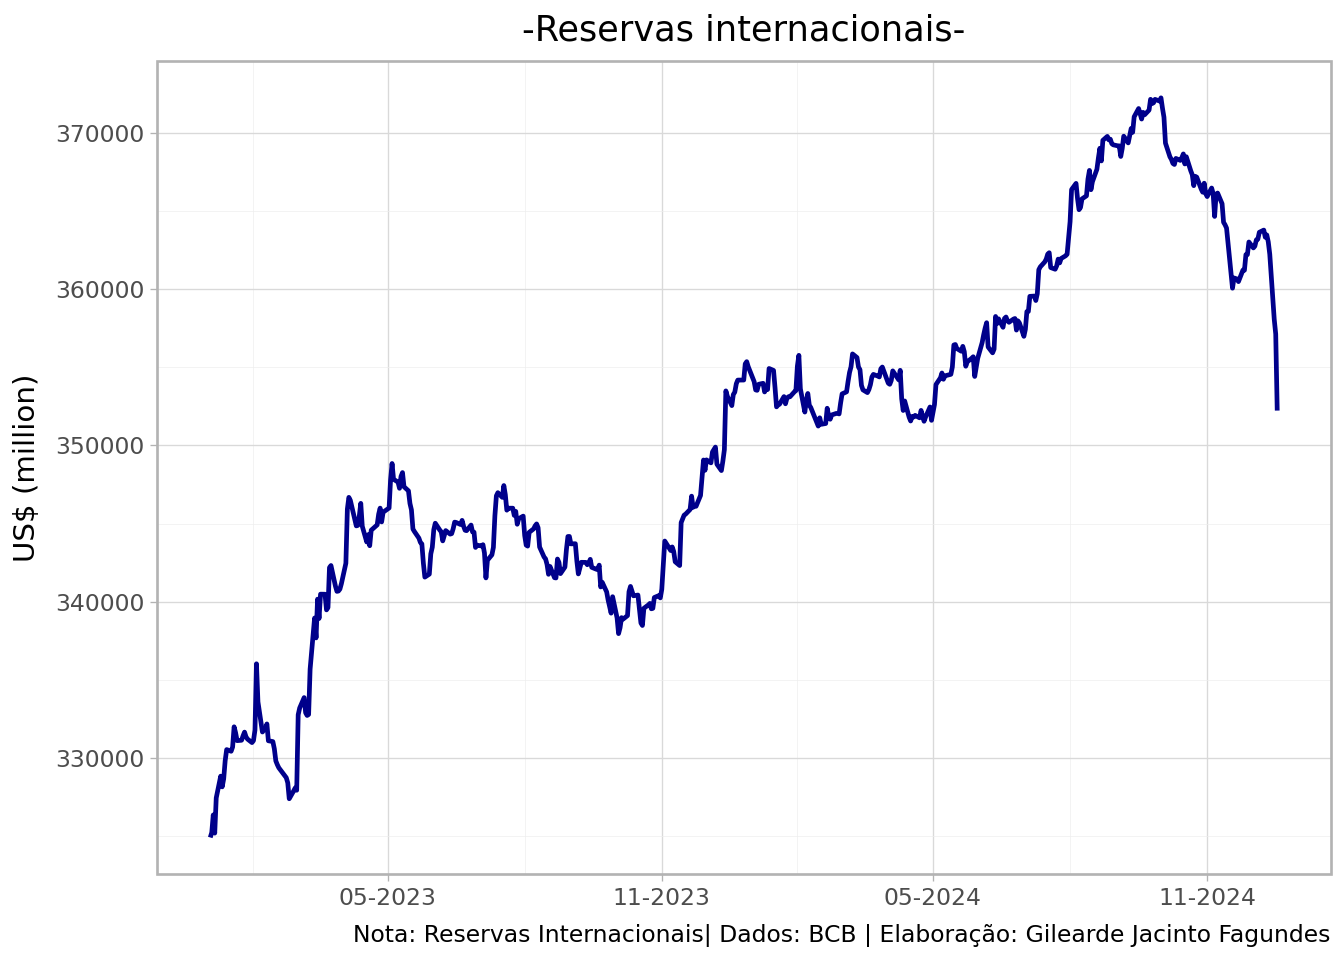
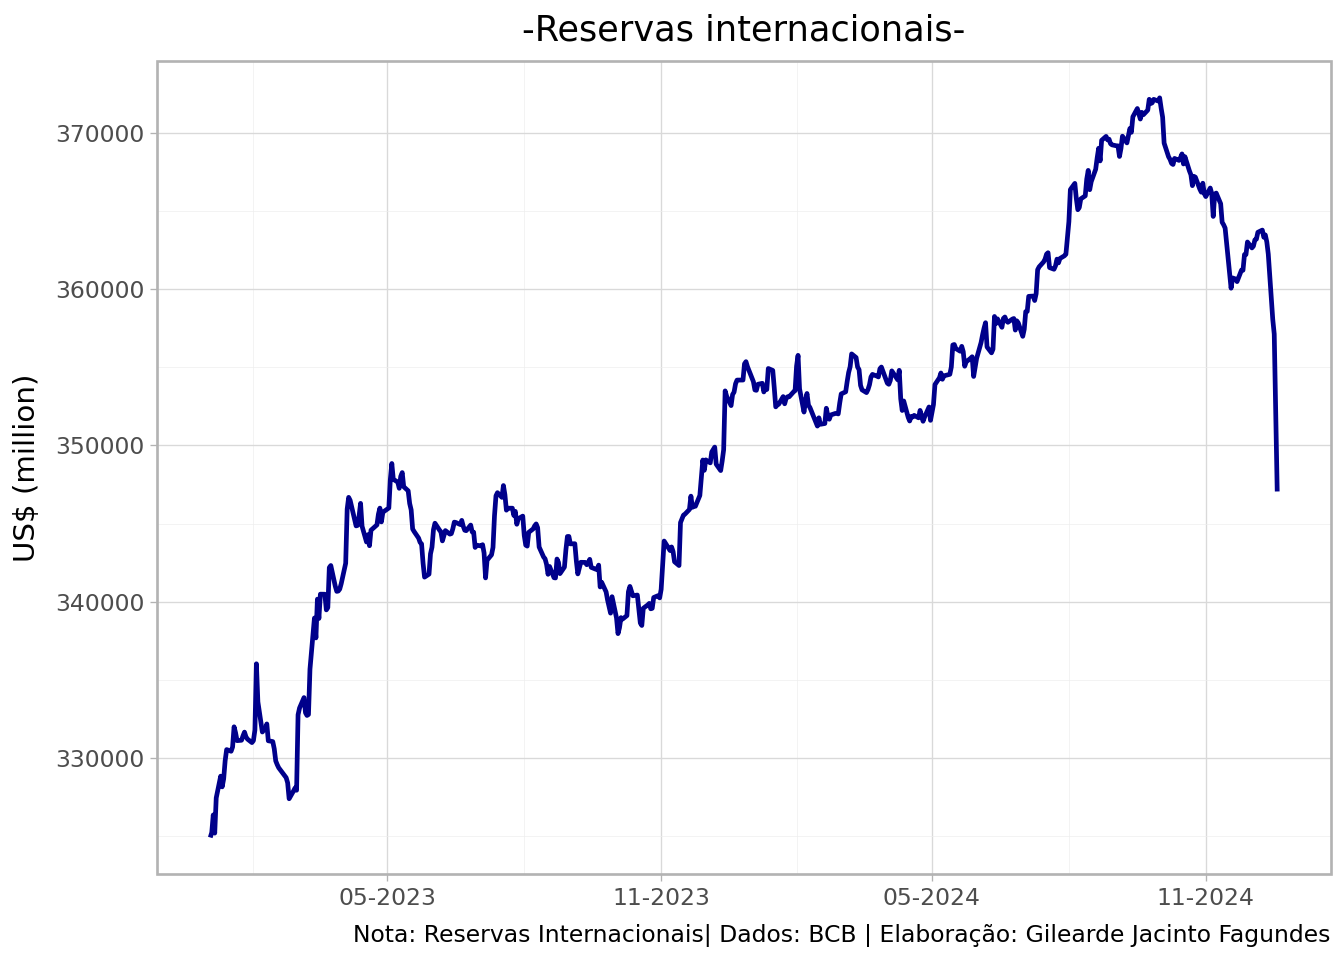
Atualização de relatorio e dashboard

diff --git a/relatorio/relatorio.html b/relatorio/relatorio.html
@@ -107,14 +107,14 @@ pre > code.sourceCode > span > a:first-child::before { text-decoration: underlin
 
 
 <p>Dados coletados da API do Banco Central do Brasil.</p>
-<div id="3549dc92" class="cell" data-execution_count="1">
+<div id="e4128f4b" class="cell" data-execution_count="1">
 <div class="sourceCode cell-code" id="cb1"><pre class="sourceCode python code-with-copy"><code class="sourceCode python"><span id="cb1-1"><a href="#cb1-1" aria-hidden="true" tabindex="-1"></a><span class="co"># Importar bibliotecas</span></span>
 <span id="cb1-2"><a href="#cb1-2" aria-hidden="true" tabindex="-1"></a><span class="im">from</span> bcb <span class="im">import</span> sgs</span>
 <span id="cb1-3"><a href="#cb1-3" aria-hidden="true" tabindex="-1"></a><span class="im">import</span> pandas <span class="im">as</span> pd</span>
 <span id="cb1-4"><a href="#cb1-4" aria-hidden="true" tabindex="-1"></a><span class="im">import</span> plotnine <span class="im">as</span> p9</span></code><button title="Copy to Clipboard" class="code-copy-button"><i class="bi"></i></button></pre></div>
 </div>
 <p>Utilização da library SGS/BCB :</p>
-<div id="aa00cc82" class="cell" data-execution_count="2">
+<div id="94075708" class="cell" data-execution_count="2">
 <div class="sourceCode cell-code" id="cb2"><pre class="sourceCode python code-with-copy"><code class="sourceCode python"><span id="cb2-1"><a href="#cb2-1" aria-hidden="true" tabindex="-1"></a><span class="co"># Coleta de dados</span></span>
 <span id="cb2-2"><a href="#cb2-2" aria-hidden="true" tabindex="-1"></a>dados <span class="op">=</span> sgs.get(</span>
 <span id="cb2-3"><a href="#cb2-3" aria-hidden="true" tabindex="-1"></a>    codes<span class="op">=</span>{<span class="st">"reserva"</span>: <span class="dv">13621</span>},</span>
@@ -123,7 +123,7 @@ pre > code.sourceCode > span > a:first-child::before { text-decoration: underlin
 <span id="cb2-6"><a href="#cb2-6" aria-hidden="true" tabindex="-1"></a>)</span></code><button title="Copy to Clipboard" class="code-copy-button"><i class="bi"></i></button></pre></div>
 </div>
 <p>Os dados brutos obtidos no SGS/BCB são exibidos abaixo:</p>
-<div id="d531b911" class="cell" data-execution_count="3">
+<div id="aede2d13" class="cell" data-execution_count="3">
 <div class="sourceCode cell-code" id="cb3"><pre class="sourceCode python code-with-copy"><code class="sourceCode python"><span id="cb3-1"><a href="#cb3-1" aria-hidden="true" tabindex="-1"></a>dados</span></code><button title="Copy to Clipboard" class="code-copy-button"><i class="bi"></i></button></pre></div>
 <div class="cell-output cell-output-display" data-execution_count="3">
 <div>
@@ -166,37 +166,37 @@ pre > code.sourceCode > span > a:first-child::before { text-decoration: underlin
 <td>...</td>
 </tr>
 <tr class="odd">
-<td data-quarto-table-cell-role="th">2024-12-12</td>
-<td>363012</td>
-</tr>
-<tr class="even">
 <td data-quarto-table-cell-role="th">2024-12-13</td>
 <td>362225</td>
 </tr>
-<tr class="odd">
+<tr class="even">
 <td data-quarto-table-cell-role="th">2024-12-16</td>
 <td>358060</td>
 </tr>
-<tr class="even">
+<tr class="odd">
 <td data-quarto-table-cell-role="th">2024-12-17</td>
 <td>357118</td>
 </tr>
-<tr class="odd">
+<tr class="even">
 <td data-quarto-table-cell-role="th">2024-12-18</td>
 <td>352224</td>
+</tr>
+<tr class="odd">
+<td data-quarto-table-cell-role="th">2024-12-19</td>
+<td>347052</td>
 </tr>
 </tbody>
 </table>
 
-<p>494 rows × 1 columns</p>
+<p>495 rows × 1 columns</p>
 </div>
 </div>
 </div>
 <p>Valores e datas da maxima e minima das Reservas Internacionais Totais:</p>
-<div id="4211a51d" class="cell" data-execution_count="4">
+<div id="cb268a11" class="cell" data-execution_count="4">
 <div class="sourceCode cell-code" id="cb4"><pre class="sourceCode python code-with-copy"><code class="sourceCode python"><span id="cb4-1"><a href="#cb4-1" aria-hidden="true" tabindex="-1"></a>dados <span class="op">=</span> dados.assign(data <span class="op">=</span> dados.index)</span></code><button title="Copy to Clipboard" class="code-copy-button"><i class="bi"></i></button></pre></div>
 </div>
-<div id="4cd859d8" class="cell" data-execution_count="5">
+<div id="a9ad10e9" class="cell" data-execution_count="5">
 <div class="sourceCode cell-code" id="cb5"><pre class="sourceCode python code-with-copy"><code class="sourceCode python"><span id="cb5-1"><a href="#cb5-1" aria-hidden="true" tabindex="-1"></a>menor_valor <span class="op">=</span> dados.reserva.<span class="bu">min</span>() </span>
 <span id="cb5-2"><a href="#cb5-2" aria-hidden="true" tabindex="-1"></a>data_menor_valor <span class="op">=</span> dados.reserva.idxmin().date()</span>
 <span id="cb5-3"><a href="#cb5-3" aria-hidden="true" tabindex="-1"></a>maior_valor<span class="op">=</span>dados.reserva.<span class="bu">max</span>()</span>
@@ -208,7 +208,7 @@ pre > code.sourceCode > span > a:first-child::before { text-decoration: underlin
 </div>
 </div>
 <p>Gráfico de linha com a série das Reservas Internacionais Totais:</p>
-<div id="175c4c19" class="cell" data-execution_count="6">
+<div id="c2218e17" class="cell" data-execution_count="6">
 <div class="sourceCode cell-code" id="cb7"><pre class="sourceCode python code-with-copy"><code class="sourceCode python"><span id="cb7-1"><a href="#cb7-1" aria-hidden="true" tabindex="-1"></a><span class="co"># Gráfico de linha</span></span>
 <span id="cb7-2"><a href="#cb7-2" aria-hidden="true" tabindex="-1"></a>chart<span class="op">=</span>p9.ggplot(data <span class="op">=</span> dados) <span class="op">+\</span></span>
 <span id="cb7-3"><a href="#cb7-3" aria-hidden="true" tabindex="-1"></a>  p9.aes(x <span class="op">=</span> <span class="st">"data"</span>, y <span class="op">=</span> <span class="st">"reserva"</span>) <span class="op">+\</span></span>
@@ -222,7 +222,7 @@ pre > code.sourceCode > span > a:first-child::before { text-decoration: underlin
 <span id="cb7-11"><a href="#cb7-11" aria-hidden="true" tabindex="-1"></a>    ) <span class="op">+\</span></span>
 <span id="cb7-12"><a href="#cb7-12" aria-hidden="true" tabindex="-1"></a>  p9.theme_light()</span></code><button title="Copy to Clipboard" class="code-copy-button"><i class="bi"></i></button></pre></div>
 </div>
-<div id="c61b54c9" class="cell" data-execution_count="7">
+<div id="ed2c0ed6" class="cell" data-execution_count="7">
 <div class="sourceCode cell-code" id="cb8"><pre class="sourceCode python code-with-copy"><code class="sourceCode python"><span id="cb8-1"><a href="#cb8-1" aria-hidden="true" tabindex="-1"></a>chart</span></code><button title="Copy to Clipboard" class="code-copy-button"><i class="bi"></i></button></pre></div>
 <div class="cell-output cell-output-display">
 <div>
